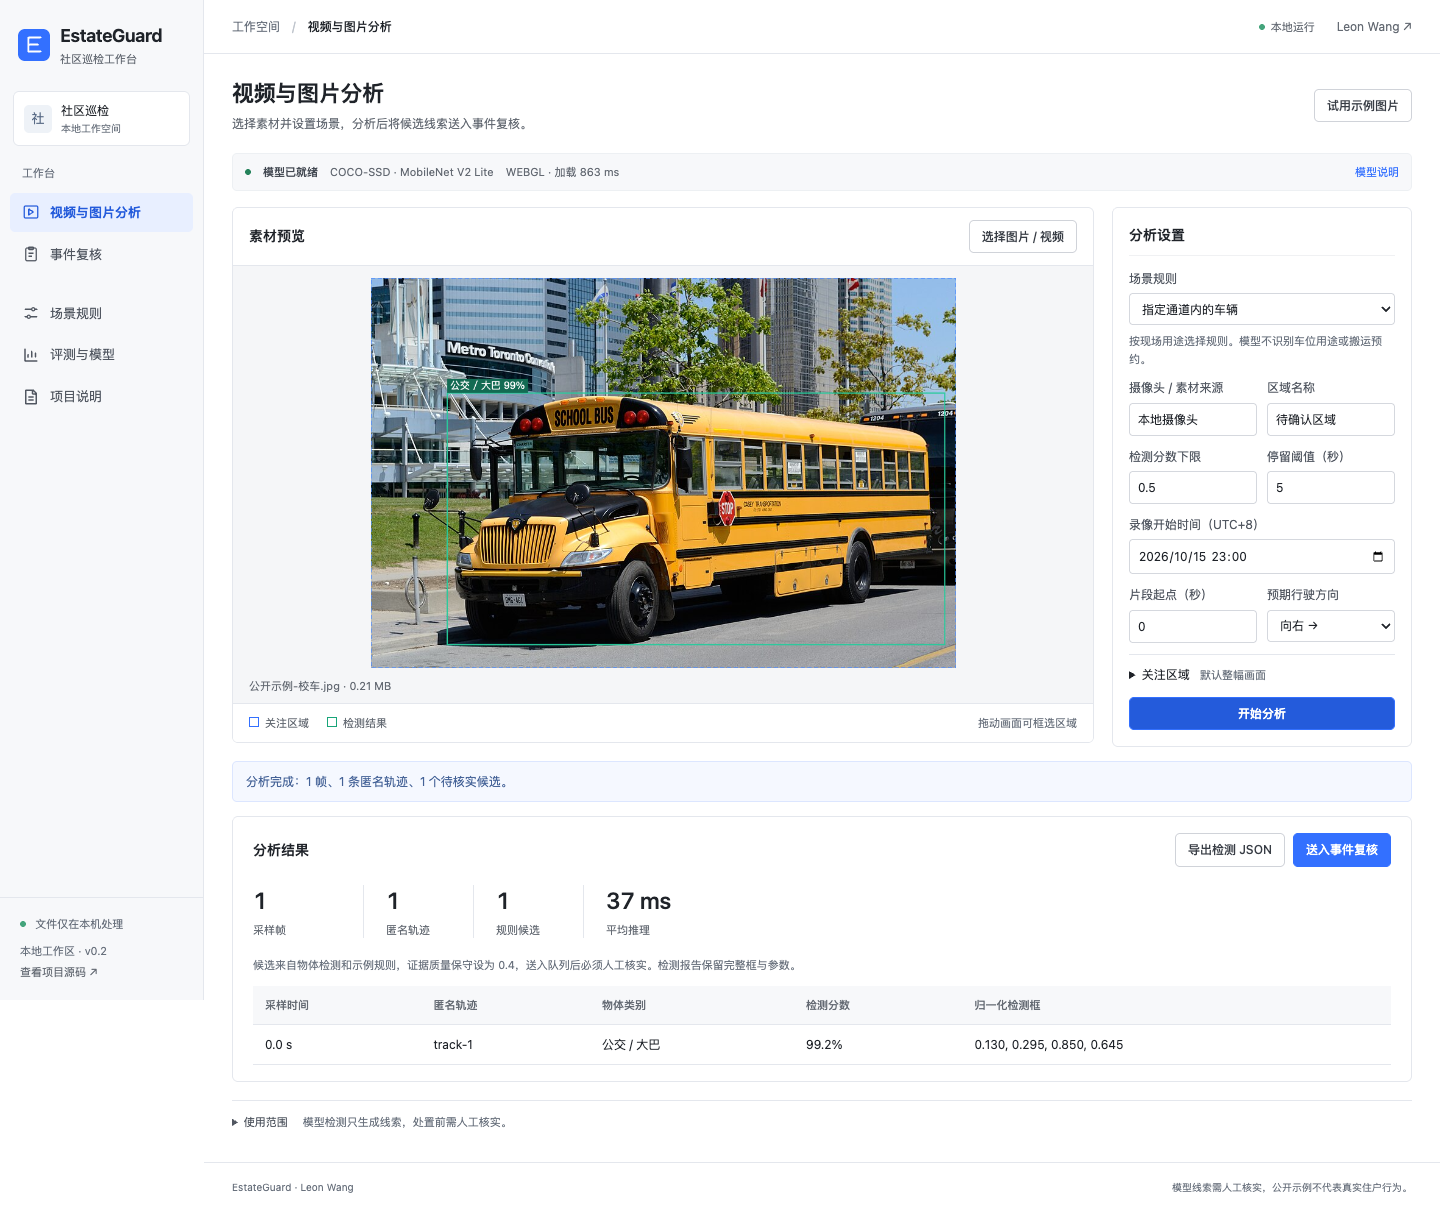
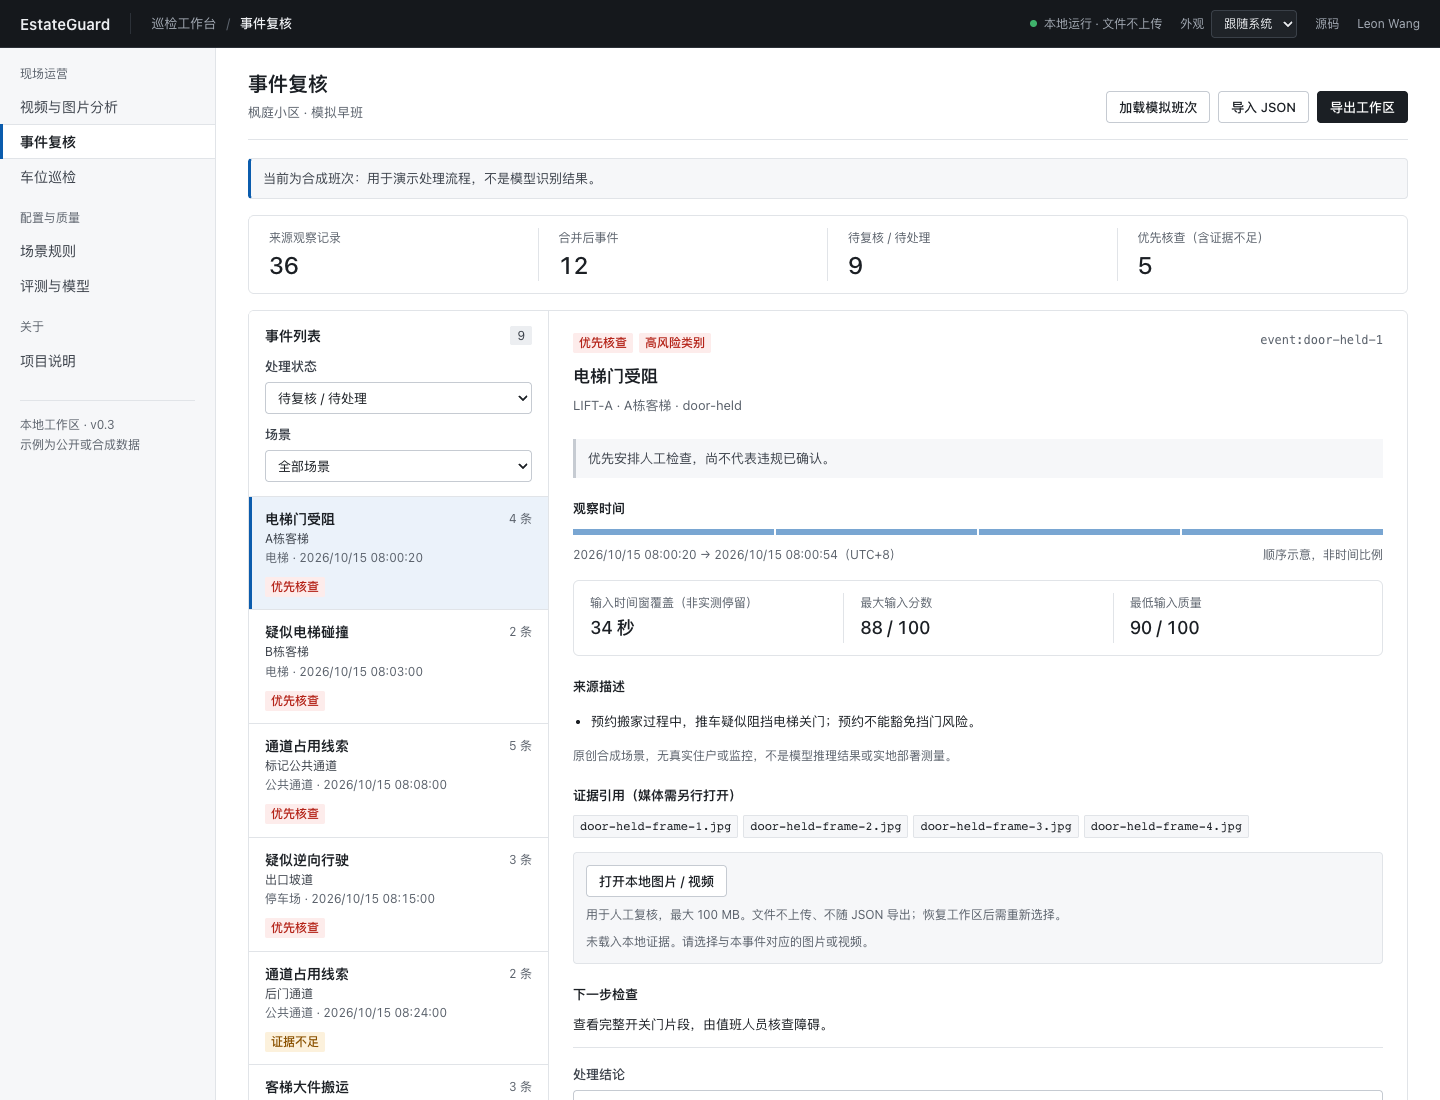
补充改版验证记录与 README 截图，处理复核遗留细节
- 导航焦点框不再被滚动容器裁切；被取消的链接点击不触发回顶
- CI 路径过滤覆盖检查读取的 docs/validation 与 tests/fixtures，浏览器缓存随 package.json 变化
- shell-check 对可滑动标签栏扣除渐隐区
- VALIDATION / IMPROVEMENT_LOG 记录参照、审查、CI 结果与已知数值差异

diff --git a/web/style.css b/web/style.css
@@ -99,6 +99,7 @@ nav { display: grid; }
 nav .nav-group:first-child { margin-top: 2px; }
 nav a { position: relative; display: block; padding: 7px 20px; color: var(--ink-2); font-size: 14px; line-height: 1.5; }
 nav a:hover { background: var(--surface-3); color: var(--ink); text-decoration: none; }
+nav a:focus-visible { outline-offset: -2px; }
 nav a.active { background: var(--surface); color: var(--ink); font-weight: 600; box-shadow: inset 0 1px 0 var(--line), inset 0 -1px 0 var(--line); }
 nav a.active::before { content: ""; position: absolute; left: 0; top: 0; bottom: 0; width: 3px; background: var(--accent); }
 .sidebar-note { margin: 22px 20px 0; padding-top: 14px; border-top: 1px solid var(--line); font-size: 12px; line-height: 1.7; color: var(--muted); }

diff --git a/docs/VALIDATION.md b/docs/VALIDATION.md
@@ -1,5 +1,23 @@
 # 验证记录 · 2026-10-15
 
+## 2026-10-29 · 运营控制台改版与 CI 浏览器检查
+
+从已发布 `b0b3294` 继续，独立工作树 `feat/enterprise-redesign`；主目录与维护工作树的未提交内容未动。用户要求去掉“AI 生成 / 后台模板”观感，参照同类企业产品重做前端。改版只动页面框架与样式：`index.html` 页头和侧栏、`style.css` 全部颜色改为变量、新增 `theme.js`（外观偏好）、`app.mjs` 导航的 `aria-current`、手机标签滚入可见区和页内视图链接回到顶部。没有修改模型、规则、数据或任何业务模块。
+
+截图对比（只打开页面，不启动分析）：改版前后 6 个页面各取 1440 / 390px，深色再取一套；均无横向溢出。主代理与只读的第二模型审查者分别查看。第一轮审查无高危，指出 5 项中危：手机深链接时当前标签在标签栏外、侧栏 100dvh 造成页面底部多出 48px 滚动、从已滚动位置点导航不回顶部（原 `scroll-margin-top` 只对首次加载有效）、上传占位区仍像模板、CI 每次重装浏览器；另有焦点框在深色页头不可见、已关闭标签对比度 4.4:1 等 13 项低危。除队列筛选并排（实测截断“待复核 / 待处理”）和一条冗余断言外均已修正。
+
+新增 [`scripts/shell-check.cjs`](../scripts/shell-check.cjs)，不触发推理：两种宽度下 6 个页面的深链接都从顶部开始、页头在视口顶端、无溢出；从页面底部点击每个导航后回到顶部，`aria-current` 正确，手机当前标签位于标签栏内；外观默认跟随系统，显式浅色覆盖深色系统设置并在刷新后保持，恢复跟随系统后去掉属性；存储被禁止时页面与切换仍正常。
+
+涉及推理的浏览器检查不在本机运行，改由新的 `Browser checks` 工作流在 GitHub Actions 逐个作业运行（推送 `feat/**` 或手动触发）。改版最终提交 `ad4b7ff` 的运行 `40913119576`：33 个检查中 32 个通过，含 model-check、detector-check、vision-dwell-check、全部车位与交班检查及 shell-check。`parking-transfer-check` 失败于 MobileNet 校准分数与发布记录相差 `1.5541e-6`（上限 `1e-6`，特征差在 `1e-4` 内）。在改版前的 `b0b3294` 上单独运行同一检查（临时分支，已删除），得到完全相同的差值，说明这是 GitHub Linux 运行器与发布特征所用 macOS WebGL 的数值差异，与改版无关。该上限针对发布环境的逐位一致性，没有放宽；工作流对这一项设 `continue-on-error`，失败作业仍可见。全量 JavaScript 156/156 本机通过。
+
+```bash
+ESTATEGUARD_URL=http://127.0.0.1:8768 node scripts/shell-check.cjs
+node --test tests/*.test.mjs
+gh workflow run browser-checks.yml --ref feat/enterprise-redesign
+```
+
+本轮不训练、不改权重，也不作任何准确率或现场效果声明。深色主题与外观偏好只在当前浏览器保存；参照产品只借用版式与交互模式，没有复制品牌、图标或文案。
+
 ## 2026-10-29 · 长素材名候选送审与可见失败反馈
 
 从已发布 `729a05d`、成功 CI `40722786377` 继续，维护工作区干净；主目录未提交研究未整合。独立物业找茬用实际文件系统的 232 / 233 字节 ASCII 文件名保存同一许可 CC0 校车图，在真实 D-FINE-N 下均得到 3 个框和 2 个规则候选。232 字节文件名加采样时间后恰为 240 字符，可送审；233 字节文件名形成 241 字符证据引用，被原校验器拒绝，分析页却仍显示“分析完成”。[红基线 1/2](validation/candidate-filename-baseline.json)同时确认原复核历史、草稿与已解码附件保留，未弹替换确认。

diff --git a/docs/IMPROVEMENT_LOG.md b/docs/IMPROVEMENT_LOG.md
@@ -387,3 +387,18 @@
 **验证**：真实 D-FINE 专项 8/8（五次图片和一次三帧合成短片），独立事件边界 4/4；新契约单测旧版 5 红 / 5 绿，修复后 10/10，全部 JS 156/156。独立界面功能 20/20，末次 CSS 两宽补充 2/2；设计师与主代理查看最终截图，标题换行、桌面及手机工具条横排和当前页错误提示可读。原送审回归 10/10、26 项资产哈希、SSDLite 图片和 7 帧合成短片实推通过，重复推理张量 262→262。短片与人工备注/非法批次明确作为流程夹具，未用于准确率声明。完整命令、报告及测试注入时序诊断见 [VALIDATION.md](VALIDATION.md)。
 
 **作用与限制**：素材名称较长时，值班员能把检测候选带入复核并完整交班；被拒绝或主动取消时，当前页面可解释结果并允许重试。没有新增训练、改权重或测量现场收益。新长引用不能保证被旧 240 上限页面读取，需要更新页面；完整名字不是可信媒体绑定，媒体仍另行打开。主目录独立数据和漂移研究未动。
+
+
+## 2026-10-29 · 改为运营控制台界面
+
+**用户需求**：原飞书式界面“太像 AI 做的或后台管理模板”，要求找同类企业产品并照着做前端。此前“固定版面、不再重新设计”的约定随之更新。
+
+**基线诊断**：改版前截图的模板特征集中在：蓝色方块标志加“社”字头像卡片、图标加蓝色胶囊的导航、四张大号统计卡、嵌套圆角面板、通用飞书蓝主按钮与蓝色标签，几乎每个控件下都有说明文字；`#3370ff` 同时用于按钮、选中、标签和图例，层级不清。
+
+**参照与取舍**：Samsara Safety 的事件收件箱（标题在前、位置与时间在后、小状态标签、左侧色条选中）；Verkada Command（中性画布、黑色主按钮、网格加详情的复核）；IBM Maximo / TRIRIGA 所用 Carbon（48px 深色页头、分组文字侧栏、细线表格、固定字号与间距）。只借版式和交互，不用其品牌元素。规范写入 [DESIGN.md](DESIGN.md)「界面规范」。
+
+**实现**：深色页头显示产品名、当前位置、本地运行、外观（跟随系统 / 浅色 / 深色）和链接；侧栏只留文字并按工作分组；统计条改为标签在上、数值在下；事件队列改为收件箱条目；按钮、输入框、标签、提示条、表格统一成一套变量，深色主题只换变量。所有 ID、类名、文字和交互保持，业务模块未改，只给导航加 `aria-current`、手机标签滚入可见区、页内视图链接回到顶部。
+
+**验证**：第二模型只读审查两轮；第一轮无高危，5 项中危与 13 项低危中，除队列筛选并排（实测截断文字）和一条冗余断言外均已修正。新增不推理的 `shell-check`；涉及推理的 33 个浏览器检查改由 GitHub Actions 运行，32 个通过，唯一失败的 `parking-transfer-check` 在改版前提交上得到完全相同的 `1.55e-6` 数值差，属于 CI 运行环境差异。详见 [VALIDATION.md](VALIDATION.md)。
+
+**限制**：截图只证明版面，不证明值班效率；没有做真实用户可用性测试。外观偏好只存在本机浏览器。CI 上的编码器逐位一致性仍以发布用的 macOS WebGL 环境为准。
